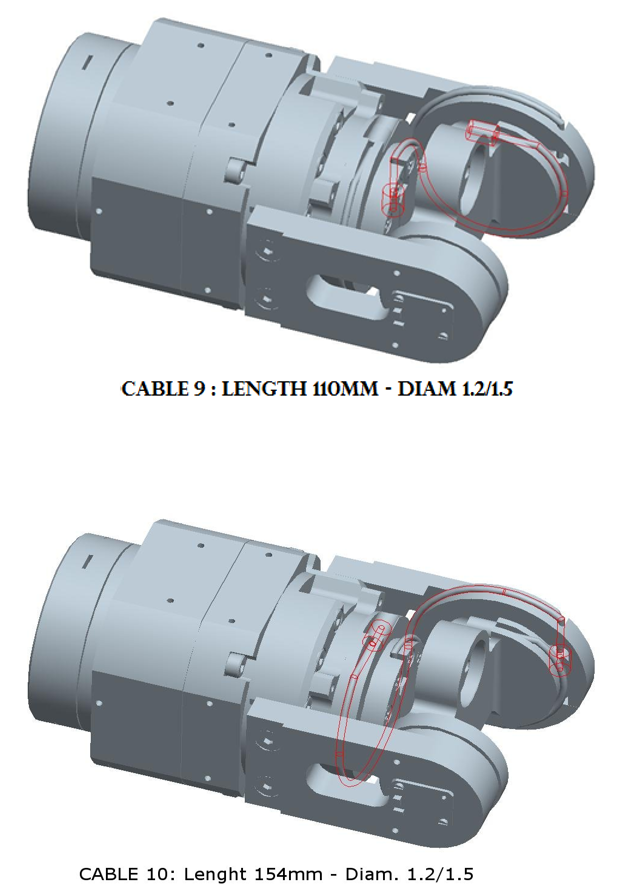
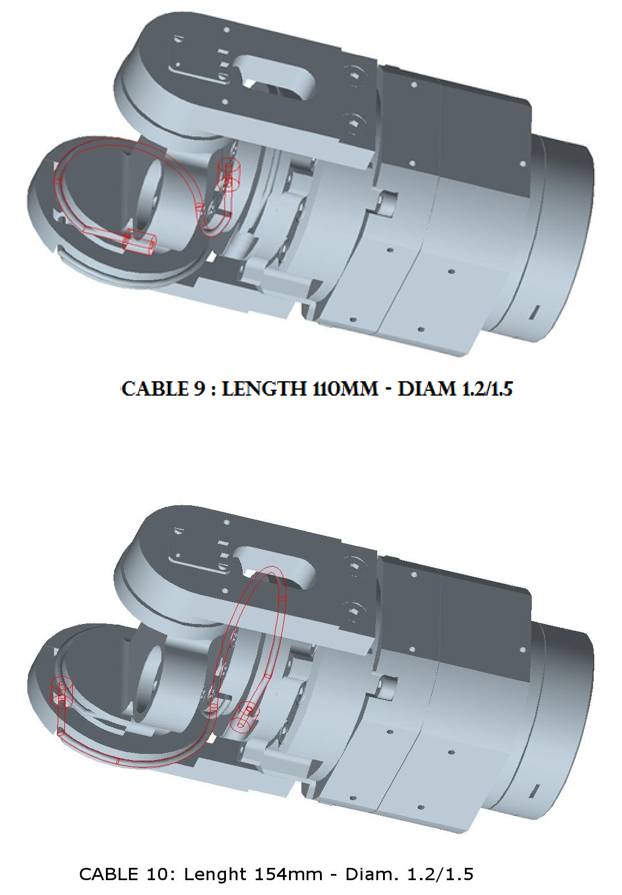
changes brings to help cabling faroarm V2 and starting of the new waist updating

diff --git a/mkdocs/tendons_icub/docs/wrist_hand_cabling_V2.md b/mkdocs/tendons_icub/docs/wrist_hand_cabling_V2.md
@@ -1,8 +1,26 @@
 
 
-##**1.	LEFT/RIGHT Wrist**
+!!! NOTE "SUM UP"
+    Updating the forearm in V2 had had for consequences the following changes compared to the wiring of the V1 - Please refer to this manual to compel with the new attributes.
 
-### **1.1 TENDONS LEFT/RIGHT**
+# 1	WRIST
+
+## 1.1  Right Forearm/Wrist tendons
+
+<center><img src='../img/HAND_WRIST_V2/Right_forearm_A.PNG' width = 110%></center>
+
+ 
+
+<center><img src='../img/HAND_WRIST_V2/Right_forearm_B.PNG' width = 130%></center>
+
+
+## 1.2  Left Forearm/Wrist tendons
+
+<center><img src='../img/HAND_WRIST_V2/Left_forearm_A.PNG' width = 120%></center>
+
+<center><img src='../img/HAND_WRIST_V2/Left_forearm_B.PNG' width = 130%></center>
+
+## 1.3  TENDONS LENGTH
 
 
 ![Hand wrist tendon](img/HAND_WRIST_V2/ICUB_Tendon_Left_Right.png)
@@ -20,42 +38,31 @@
 | 9 | 6418 | 51 mm | RC_IIT_019_G_027 |
 | 10 | 6419 | 43 mm | RC_IIT_019_G_028 |
 
-
 !!! Note
-    Tendon 9 is the “long tendon”
-    
-    Tendon 10 is the “short tendon”
-
-Each Tendon is made by a CARL STHAL code  CG077081 (Alias RC_IIT_019_P_0xx - where xx from 19 to 28). Material -  Stainless steel microcable, cable construction 7x7mm, nom. dia 0,81mm, not coated, AISI 304) with the L reported and with two thimbles  (IITCODE 4722 and alias RC_TLR_010_P_100)
+    Tendon 9 is the “long tendon” and Tendon 10 is the “short tendon”, they are not represented here but they are located at the base of the wrist.
 
 
 
-### **1.2. SHEAT Versions**
+## 1.4  Construction table
 
+Here is the table reported the list of part needed to build them.
 
-|IITCODE|	Alias|	DescrIption|
-|--|--|--|
-|2375	|SHEAT|	Open spiral spring, inox steel AISI302, D ext= 1.6mm, D wire= 0.25mm, L = 500 mm
-|4545 |4545|	Flat Wire Coil OD1.6mm +/-0.03mm - ID 1.07mm - L = 300 mm|
-|13963	|MAZZONI_0_3-0_8_-250_SS_SHEATH|Rectangular section sheath 0.3x0.8, L = 250 mm|
+| Number of pieces | IITCODE | Alias/Provider Code | Description                                                  |
+| ---------------- | ------- | ------------------- | ------------------------------------------------------------ |
+| 1                | 4482    | CG077081            | Stainless steel microcable, cable construction 7x7mm, nom. dia 0,81mm, not coated, AISI 304 |
+| 2                | 4722    | RC_TLR_010_P_100    | THIMBLE FOR CABLE 0.8mm                                      |
 
-
-!!!note
-    IIT code  13963 is alternative to the 4545 and it was introduced only for cost efficiency
-
-
-!!!DANGER
-    inside sheath 13724 please DO NOT USE teflon sheath!!!
+Each Tendon is made by CARLSTAHL, GmBH from code  CG077081 (Alias RC_IIT_019_P_0xx - where xx from 19 to 28). with the L reported from the the length table (see above) and with two thimbles.
 
 
 
-###**1.3.Tensioner LEFT/RIGHT**
+## 1.5  Tensioner - IITCODE 3514
 
 
 ![Hand wrist tendon](img/HAND_WRIST_V2/Tensioner_descriprion.PNG)
 
 
-The assembly IITcode 3514 - alias RC_TLR_010_G014 is made by:
+The tensioner IITCODE 3514 is an assembly - alias RC_TLR_010_G014 - made with the following pieces:
 
 |IIT Code |Alias |Description |Quantity|
 |--|--|--|--|
@@ -67,130 +74,129 @@ The assembly IITcode 3514 - alias RC_TLR_010_G014 is made by:
 
 
 
-### **1.4 Right Forearm/Wrist tendons** 
-
-![Hand wrist tendon](img/HAND_WRIST_V2/Right_forearm_A.PNG) 
-
-![Hand wrist tendon](img/HAND_WRIST_V2/Right_forearm_B.PNG)
 
 
-### **1.5 Left Forearm/Wrist tendons**
-
-![Hand wrist tendon](img/HAND_WRIST_V2/Left_forearm_A.PNG)
-
-![Hand wrist tendon](img/HAND_WRIST_V2/Left_forearm_B.PNG)
+# 2.	Finger sheaths
 
 
-
-
-
-
-
-
-
-
-
-
-##**2.Finger sheats**
-
-
-|Finger   |Prox/Dist   |Label   |Length   |IITCODE   |
+|Finger   |Prox/Dist   |Label   |Length (mm)   |IITCODE - sheath to use   |
 |---|---|---|---|---|
-|Thumb   |Proximal   | 6+   |185      mm   |13963   |
-|Thumb|Short Prox|     |9 mm|2375|
+|Thumb   |Proximal   | 6+   |185   |13963   |
+|Thumb|Short Prox|     |9|2375|
 |Thumb   | Proximal  |6-   |185|13963   |
-|Thumb|Short Prox | |11 mm| 2375|
-|Thumb	|Distal|	N°4|	  57  mm	|2375   |
+|Thumb|Short Prox | |11| 2375|
+|Thumb	|Distal| N4 |	  57	|2375   |
 |Thumb |Short Dist|  |11.5|2375|
-|Index|	Proximal|	8+	|224 mm	|13963   |
-|Index|	Proximal|	8-|	224 mm|	13963   |
-|Index|	Distal|	N°5|	105 mm|	2375   |
-|Middle|	Proximal|	7+|	224 mm|	13963   |
-|Middle|	Proximal|	7-|	224 mm|	13963   |
-|Middle|Distal	|N°3	|105 mm	|2375   |
-|Ring Finger|	|	N°2|	95   mm|	2375   |
-|Pinkie|	|	N°9|	95   mm|	2375   |
-|Finger abduct| | T0| 90 mm (1)|2375|
-|Finger abduct| | T2| 27 mm|2375|
-|Finger abduct| | T4| 44 mm|2375|
+|Index|	Proximal|	8+	|224	|13963   |
+|Index|	Proximal|	8-| 224 |	13963   |
+|Index|	Distal| N5 | 105 |	2375   |
+|Middle|	Proximal|	7+| 224 |	13963   |
+|Middle|	Proximal|	7-| 224 |	13963   |
+|Middle|Distal	|N3	|105	|2375   |
+|Ring Finger|	| N2 | 95 |	2375   |
+|Pinkie|	| N9 | 95 |	2375   |
+|Finger abduct| | T0| 90 (1) |2375|
+|Finger abduct| | T2| 27 |2375|
+|Finger abduct| | T4| 44 |2375|
+|Thumb| oppose | S0 | 50 |13963|
+|Thumb| oppose | S2 | 57 |13963|
 
 
 
 !!! NOTE
     (1) the length 90 mm of T0 comes from previous version where there was: T0+T3+tensioner (38+38+14 mm)
 
-			   	
+!!! WARNING
+    Please respect the labelling - remove the excess of color ring letter or number, **!!!they are not anymore in use!!!!**			   	
+
+## 2.1  SHEAT Versions
+
+|IITCODE|	Alias|	Description|
+|--|--|--|
+|2375	|SHEAT|	Open spiral spring, inox steel AISI302, D ext= 1.6mm, D wire= 0.25mm, L = 500 mm
+|4545 |4545|	Flat Wire Coil OD1.6mm +/-0.03mm - ID 1.07mm - L = 300 mm|
+|13963	|MAZZONI_0_3-0_8_-250_SS_SHEATH|Rectangular section sheath 0.3x0.8, L = 250 mm|
+
+!!!NOTE
+    IIT code  13963 is alternative to the 4545 and it was introduced only for cost efficiency
+
+!!!DANGER
+    inside sheath 13724 please **DO NOT USE** teflon sheath!!!
 
 
 
+# 3	Hand Wiring
+
+!!! NOTE "SUM UP"
+    You will find below a certain amount of pictures illustrating the changes or helping you to individuate the cabling and labelling of the different sheaths located in the hand part of the Forearm
 
 
 
+## 3.1  Palm
 
-
-
-				
-
-
-## **3. Left Hand**
-
-     Opposite palm view 
-
+     Left palm, view from top - S0 and S2 cable from the thumb oppose
 
 ![Hand wrist tendon](img/HAND_WRIST_V2/Opposite_palm-view.PNG)
 
+!!!NOTE
+    The Right Thumb oppose sheath are the exact same just mirrored so the rule of the longest (S2) and the shortest (S0) is still the same.
 
 
 
-###**3.1 Left THUMB**
+## 2.1 Left THUMB
 
 
 
-Left Thumb Abduction cable diam 0,63 mm
+Here, you will find some rues to individuate the wiring and sheath for the wiring of the thumb oppose, the thumb proximal and distal.
 
 
 ![Hand wrist tendon](img/HAND_WRIST_V2/THUMB1.PNG)
+
+
 
 ![Hand wrist tendon](img/HAND_WRIST_V2/THUMB2.PNG)
 
 ![Hand wrist tendon](img/HAND_WRIST_V2/THUMB3.PNG)
 
-
-
-###**3.2  Thumb Metacarpus sheath positions**
+## 3.2  Thumb Metacarpus sheath positions
 
 ![ar](img/HAND_WRIST_V2/Metacarpus.PNG)
 
-From S2 make 1 turn around the pulley (see follow drawing) 
+!!! WARNING "REMINDER"
 
-From S0 go directly to the hole (see follow drawing)
-
-!!! Note
-    Proximal thumb sheats are made from 
-    IIT-13963 - MAZZONI_0_3-  0_8_-250_SS_SHEATH rectangular 0,3x0,8 mm, L= 250 mm
+    The following list of sheaths are made from IITCODE :2375 - Open spiral spring, inox steel AISI302, D ext= 1.6mm, D wire= 0.25mm – L = 500 mm:
     
-    The following list of sheats are made from IIT-2375 – SHEATH - Open spiral spring, inox steel AISI302, D ext= 1.6mm, D wire= 0.25mm – L = 500 mm:
-    
-    Distal Thumb
-    
-    Short Distal thumb
-    
-    Short Prox thumbs
+    	- Distal Thumb
+    	- Short Distal Thumb
+    	- Short Prox Thumb
 
 
 
+# 4 	Proximal Sheath - Position of the motor and labelling, cable routing
+
+## 4.1  Position of the motors and labelling
+
+### Left Forearm
+
+<center>![L4Rm](img/HAND_WRIST_V2/L4Rm-labels.png)</center>
 
 
 
+### Right Forearm
+
+<center>![R4Rm](img/HAND_WRIST_V2/R4Rm-labels.png)</center>
 
 
 
+!!!WARNING
+    Please note that the proximal of the Left and Right Arm are symmetrical respect to the median plan of the body, meaning that index prox (7) is on the left side of the right forearm and on the right side of the left forearm.
+
+## 4.2  Cable routing
 
 
 
+Here an example of good routing for the left forearm. Useless to say that the Right needs to look like identical.
 
 
 
-
-
-
+<center>![R4Rm](img/HAND_WRIST_V2/L4Rm-cabling.png)</center>

diff --git a/mkdocs/tendons_icub/docs/lower_arm_V1.md b/mkdocs/tendons_icub/docs/lower_arm_V1.md
@@ -106,12 +106,11 @@ The minimum requirement to start recabling:
 | <img src ="../img/lowerArm/R&P_V1.png" height = 400px>       | 2. starting point of the cabling are the 2 holes of the slider  |
 | <img src ="../img/lowerArm/R_P_st_pt.png" height = 400px> | 3 .pass both cables inside the parallle holes|
 | <img src ="../img/lowerArm/P_R.png" height = 400px>| 4. exit of both cables|
-| <img src ="../img/lowerArm/R_P_cabling.png" height = 400px>| 5. cable routing|
-| | to be able to pass the cable at the base of the nail it is importatn to remove the nail and move forward the fingertip for 1 cm from its base.|
-| |When you finally make it that far<br> 6. please write with a marker at the base of the nails where the knot should be in order to have a perfect syncronous closing for both fingers. <br>|
-| | 7. Now close manually the 2 fingers to get some slack to the cable and pull it out a bit to see where you should create the knot - at the very end of the mark on the cable <br>|
-| |8. If you did good, when releasing the fingers they should be simmetrical|
-| | **FINISHED!!!**|
+| <img src ="../img/lowerArm/R_P_cabling.png"> | 5. cable routing.<br />To be able to pass the cable at the base of the nail it is important to remove the nail and move forward the fingertip for 1 cm from its base. |
+| | 6. please write with a marker at the base of the nails where the knot should be in order to have a perfect synchronous closing for both fingers. <br/> |
+| |7. Now close manually the 2 fingers to get some slack to the cable and pull it out a bit to see where you should create the knot - at the very end of the mark on the cable <br/>|
+| | 8. If you did good, when releasing the fingers they should be symmetrical |
+| |**FINISHED!!!**|
 
 
 ## Proximal Joints - Coming SOON

diff --git a/mkdocs/tendons_icub/docs/shoulder_elbow.md b/mkdocs/tendons_icub/docs/shoulder_elbow.md
@@ -164,7 +164,7 @@ Una volta cablato   il cavo, nel passaggio del cavo attorno alla puleggia piccol
 
 <center>![ICUB-SHOULDER](img/shoulder/ICUB_SHOULDER_LEFT_Cable_6.png)</center>             
 <center>![ICUB-SHOULDER](img/shoulder/ICUB_SHOULDER_LEFT_Cable_5.png)</center>
-> Once both crimps jumped over the 2 teeth holding the in position you can start tightening the screws of the tensionnes 6 and 5
+> Once both crimps jumped over the 2 teeth holding the crimp in position you can start tightening the screws of the tensionnes 6 and 5
 
 ## 3. Left Elbow cabling 
 
@@ -175,8 +175,8 @@ Una volta cablato   il cavo, nel passaggio del cavo attorno alla puleggia piccol
 !!! warning
     **EITHER** you remove the Lower Arm by Following the instructions for Lower Arm [**V1**](remove.md#position001) or Lower Arm [**V2**](remove.md#position002)
     
-    **OR** You are heped by **someone else** to hold the Lower Arm (Forearm + Hand).
-    
+    **OR** You are helped by **someone else** to hold the Lower Arm (Forearm + Hand).
+
 
 <center>![ICUB_ELBOW](img/shoulder/ICUB_Elbow_LEFT_Cable_9-10.png)</center> 
 
@@ -313,8 +313,8 @@ Una volta cablato   il cavo, nel passaggio del cavo attorno alla puleggia piccol
 !!! warning
     **EITHER** you remove the Lower Arm by Following the instructions for Lower Arm [**V1**](remove.md#position001) or Lower Arm [**V2**](remove.md#position002)
     
-    **OR** You are heped by **someone else** to hold the Lower Arm.
-    
+    **OR** You are helped by **someone else** to hold the Lower Arm.
+
 
 <center>![ICUB_ELBOW](img/shoulder/ICUB_Elbow_RIGHT_Cable_9-10.png)</center> 
 
